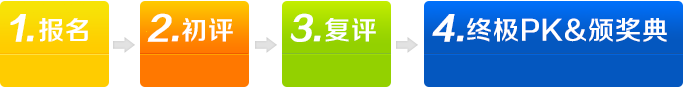
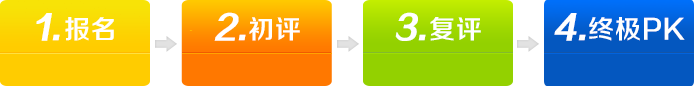
首页流程图及新header

diff --git a/static/css/style.css b/static/css/style.css
@@ -130,26 +130,23 @@ input[type="text"]:focus{
   height: 100%;
 }
 .main .left .flow{
-  padding: 18px 20px;
+  padding: 18px 15px;
 }
 .main .left .flow ul{
-  width: 684px;
-  height: 88px;
+  width: 694px;
+  height: 86px;
   background: url(../images/flow.png) no-repeat;
 }
 .main .left .flow ul li{
-  width: 110px;
-  height: 34px;
+  width: 150px;
+  height: 32px;
   color: #fff;
   text-align: center;
   margin-top: 60px;
-  margin-right:30px;
+  margin-right:31px;
   float: left;
 }
 .main .left .flow ul li:last-child{
-  width: 250px;
-  height: 34px;
-  margin-top: 60px;
   margin-right: 0;
 }
 .main .left .channel{
